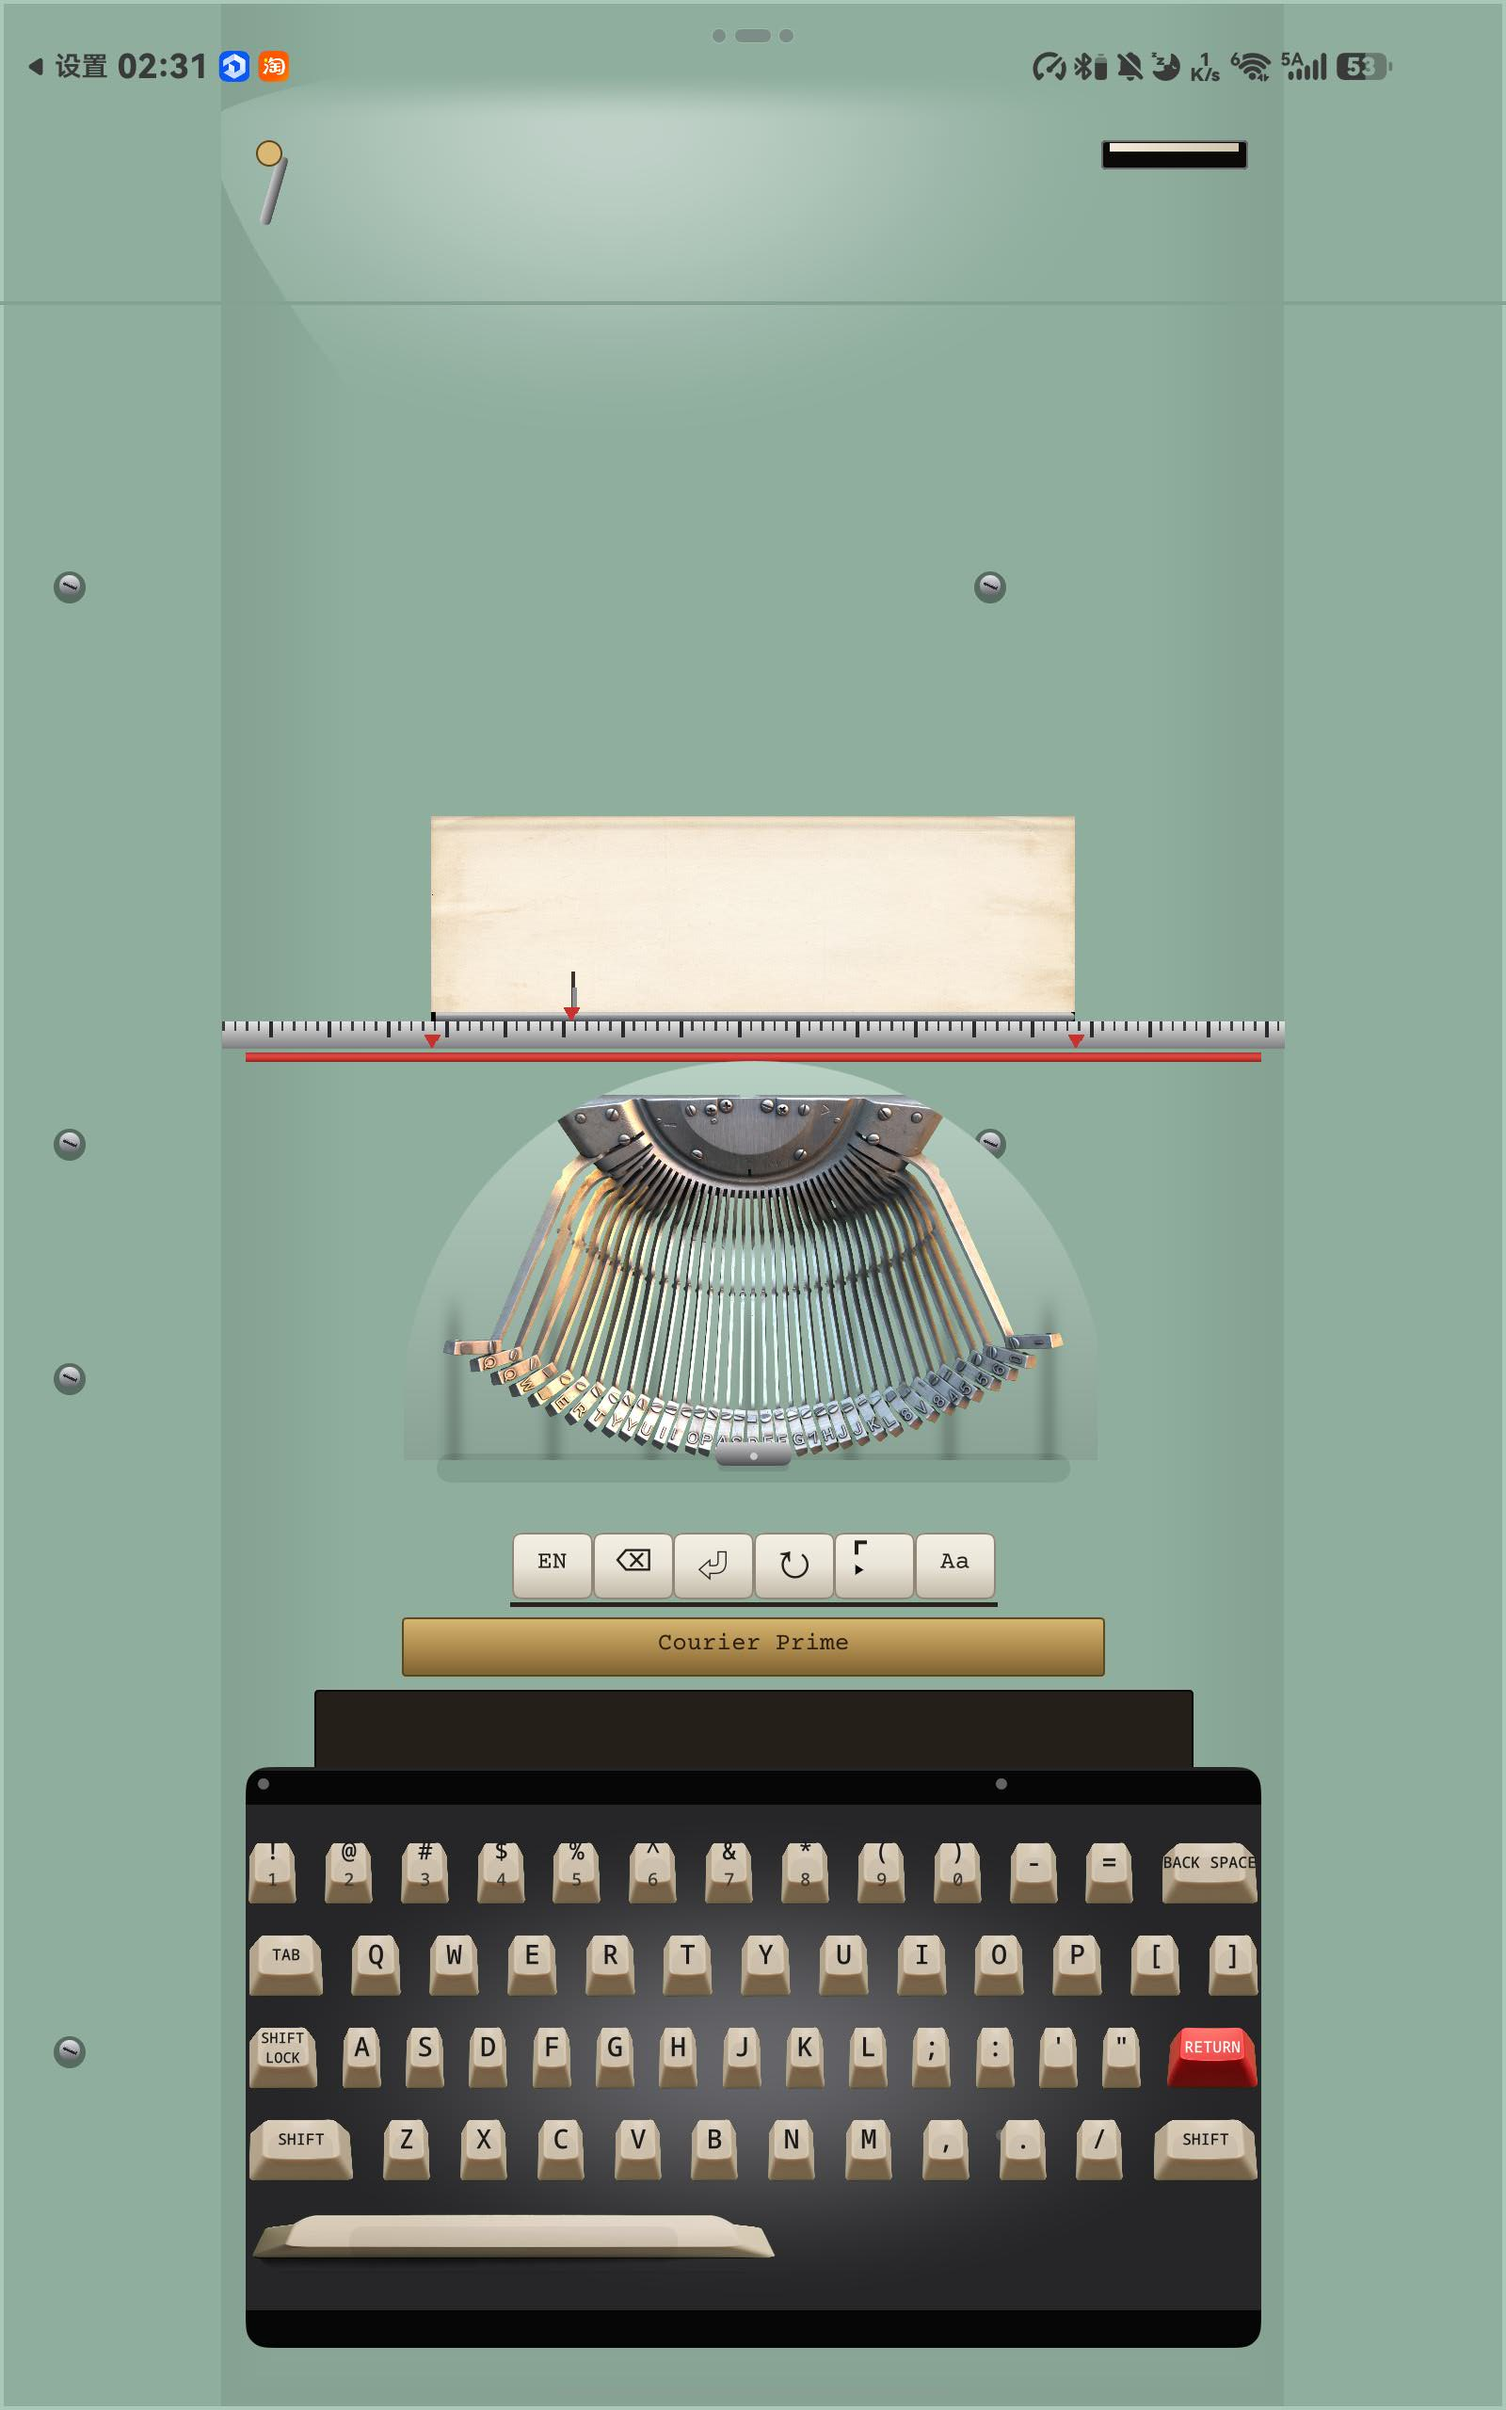
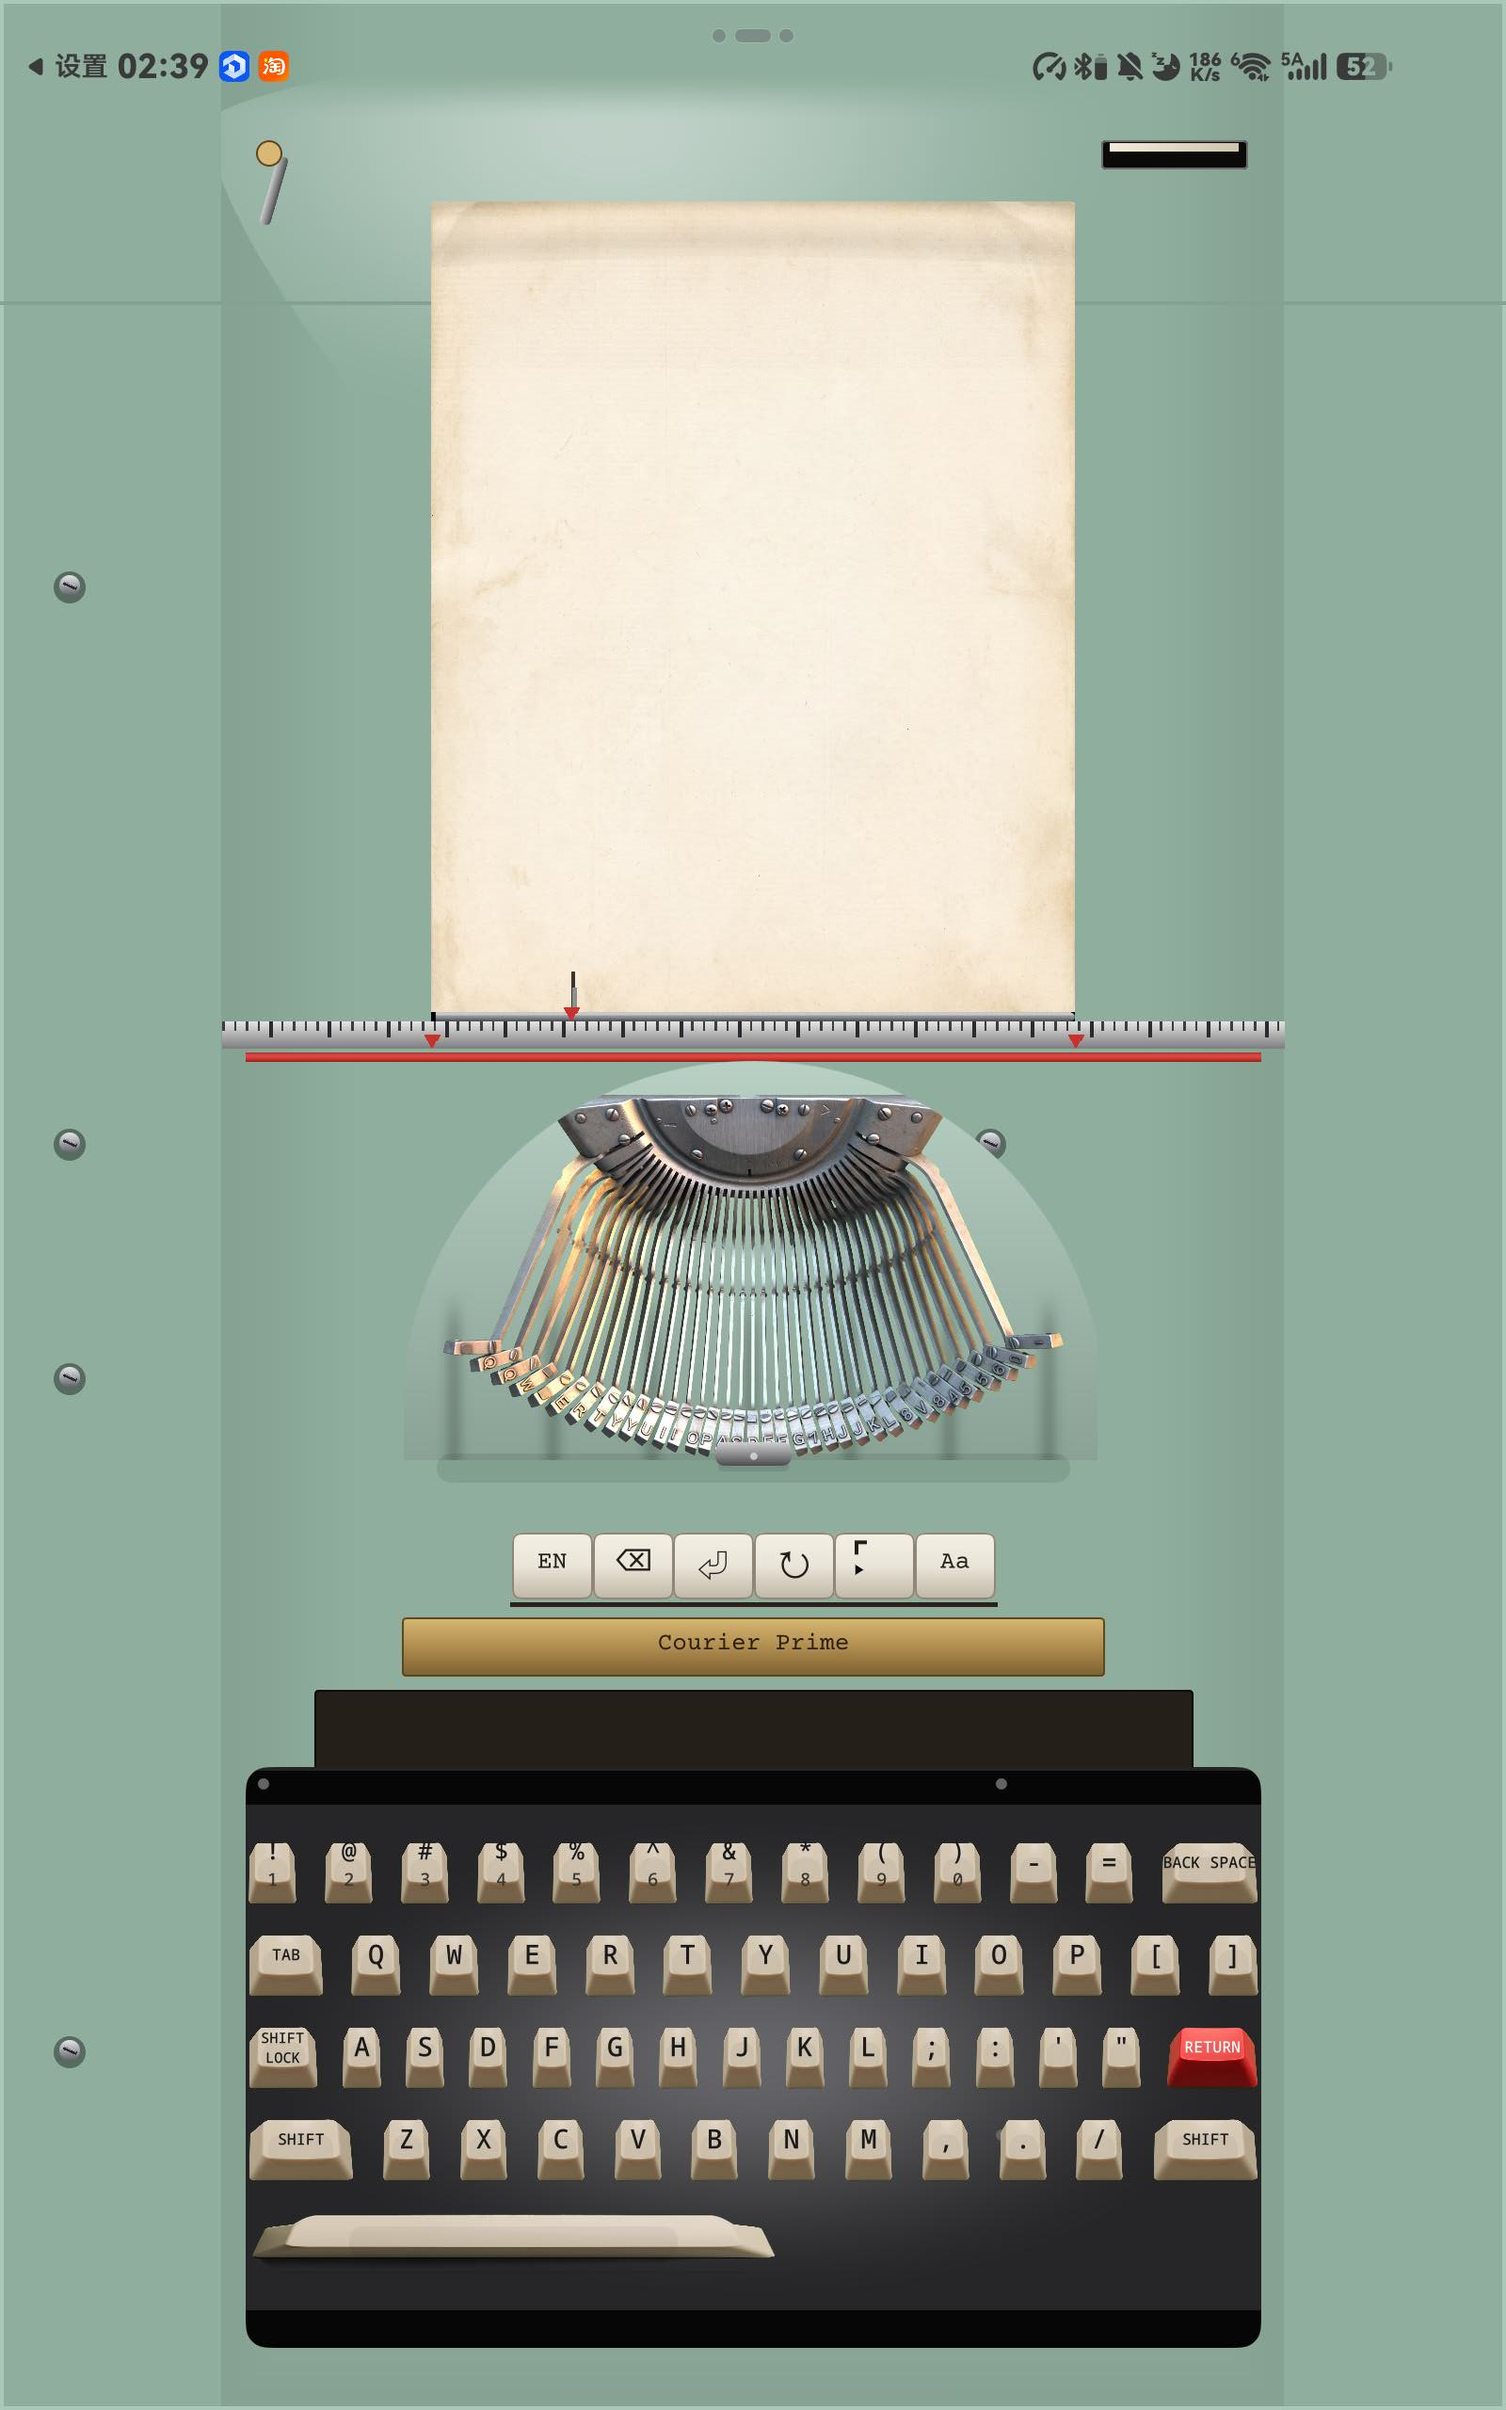
批64 更正：12 行回车是自动换纸（非重置，maxRows=12）；2286 实测 8/9/10 行=257/284.5/312；2283 改记 12 行满纸+自动换纸

Changed region(s): [[0.2812, 0.0625, 0.7188, 0.3438]]

diff --git a/tools/_p64_ev6.py b/tools/_p64_ev6.py
@@ -1,0 +1,70 @@
+# 批 64 验收（第六段）：8/9/10 行数值（2286）＋ 12 行满纸与自动换纸（2283 的正确口径）
+import os, re, sys, time
+sys.path.insert(0, os.path.dirname(os.path.abspath(__file__)))
+import _p64_dev as D
+import _p38_hdc as H
+
+
+def center(label, min_y=1800):
+    wins = D.dump_all()
+    hits = [h for h in D.by_text(label, wins) if h[1][1] > min_y and h[0] == label]
+    if not hits:
+        hits = [h for h in D.by_text(label, wins) if h[1][1] > min_y and label in h[0]]
+    return H.center(hits[0][1]) if hits else None
+
+
+def tap(label, n, gap=1.0):
+    c = center(label)
+    if c is None:
+        print('KEY MISSING', label)
+        return False
+    for _ in range(n):
+        H.tap(*c)
+        time.sleep(gap)
+    return True
+
+
+def parts():
+    out = D.logs('parts stageW', 2)
+    m = re.findall(r'paperTop=([\d.]+) paperBox=([\d.]+)', out)
+    return m[-1] if m else None
+
+
+def lines_of(box):
+    return round((float(box) - 37) / 27.5, 1)
+
+
+if __name__ == '__main__':
+    H.start_app(9)
+    time.sleep(0.8)
+    D.goto_typing()
+    time.sleep(1.3)
+    p = parts()
+    print('start:', p, 'lines', lines_of(p[1]))
+    # 清到 1 行
+    tap('BACK SPACE', 20, 1.0)
+    time.sleep(1.0)
+    print('cleared:', parts())
+    # 建到 8 行
+    tap('RETURN', 7, 1.0)
+    time.sleep(1.0)
+    print('8 lines:', parts())
+    tap('RETURN', 1, 1.0)
+    time.sleep(1.0)
+    print('9 lines:', parts())
+    tap('RETURN', 1, 1.0)
+    time.sleep(1.0)
+    print('10 lines:', parts())
+    D.shot('2286_p64_paper_boxes')
+    # 到 12 行（满纸）
+    tap('RETURN', 2, 1.0)
+    time.sleep(1.2)
+    print('12 lines:', parts())
+    wins = D.dump_all()
+    print('zones@12:', D.by_id('p35_carriage', wins), D.by_id('p33_key_well', wins), D.by_id('p26_basket', wins))
+    D.shot('2283_p64_paper_cap')
+    # 第 13 次回车 → 自动换纸
+    tap('RETURN', 1, 1.2)
+    time.sleep(1.4)
+    print('after 13th return:', parts())
+    print(D.logs('newlineAtLastRow|paperChange start|paperChange done', 4))

diff --git a/docs/evidence/p36/selfcheck.md b/docs/evidence/p36/selfcheck.md
@@ -2267,3 +2267,23 @@ F 项里打字主链路（落字/回车/退格/换纸/功能行）成立；**F-1
   ② 把 `paperContainerVp` 删除（T6 余项）后再复测；③ 若仍重置，抓 `loadDocument` 的调用栈。
 - **2283／2286 仍判未通过**：现有 `2283_p64_paper_cap.png`／`2286_p64_paper_boxes.png` 是重置后的 2 行／1 行态，
   仅作占位，待上面修好后再拍。**本批不得据此宣称阶段 1 验收通过。**
+
+### 批 64 阶段 1 更正：上一段「12 行后文档被重置」是**误判**——那是产品的自动换纸
+
+- **真因**：纸面满 **12 行**时按回车走 `newlineAtLastRow -> paperChange maxRows=12`，`entry=newline-auto`，
+  即「一张纸写满 → 自动换新纸」，是既有设计行为，不是崩溃/重置。判据 `maxRows = floor((paperHeightVp − 44 − 20)/行高)`
+  ＝floor((407.3−64)/27.5)＝**12**。**上一段的「文档重置／页面重建」结论作废**（先前只看到 `parts` 回落，
+  没查 `paperChange` 那几行日志；这次抓到了）。
+- **2286 实测（平板，fs 15.58、lh 27.5、纸宽 288）**：
+  | 行数 | paperBox | 判定 |
+  |---|---|---|
+  | 8 | **257.0**（＝31+8×27.5+6） | ≤ 400.7 ✓ |
+  | 9 | **284.5** | ✓ |
+  | 10 | **312.0** | ✓（新截图 2286 即此状态） |
+  - 注意：**「封顶 400.7」在正常打字路径下永远到不了**——12 行就自动换纸，12 行时 paperBox 只有 **366.9**。
+    目标书写的「10 行＝封顶」与产品现行 `maxRows=12` 口径对不上，属**口径冲突，需拍板**（改 maxRows 还是接受 366.9）。
+- **2283 实测（12 行满纸）**：`parts paperTop=38.3 paperBox=366.9`；三区 rect **完全不变**
+  （`p35_carriage (236,133)-(1365,1127)`、`p33_key_well (261,1877)-(1340,2494)`、`p26_basket (427,1127)-(1174,1557)`）
+  ⇒「纸区高度不变、键盘井不压缩」✓。第 13 次回车 → `newlineAtLastRow -> paperChange`（自动换纸，文档回 1 行）。
+  **「13 行到顶」在当前产品里不可达**，2283 按「12 行满纸＋自动换纸」记，截图已更新为该状态。
+- 另：上一段的「点按节奏」结论仍成立（≥1.0s 才不丢事件）；本段所有操作均用 1.0s 间隔，命中率 100%。
